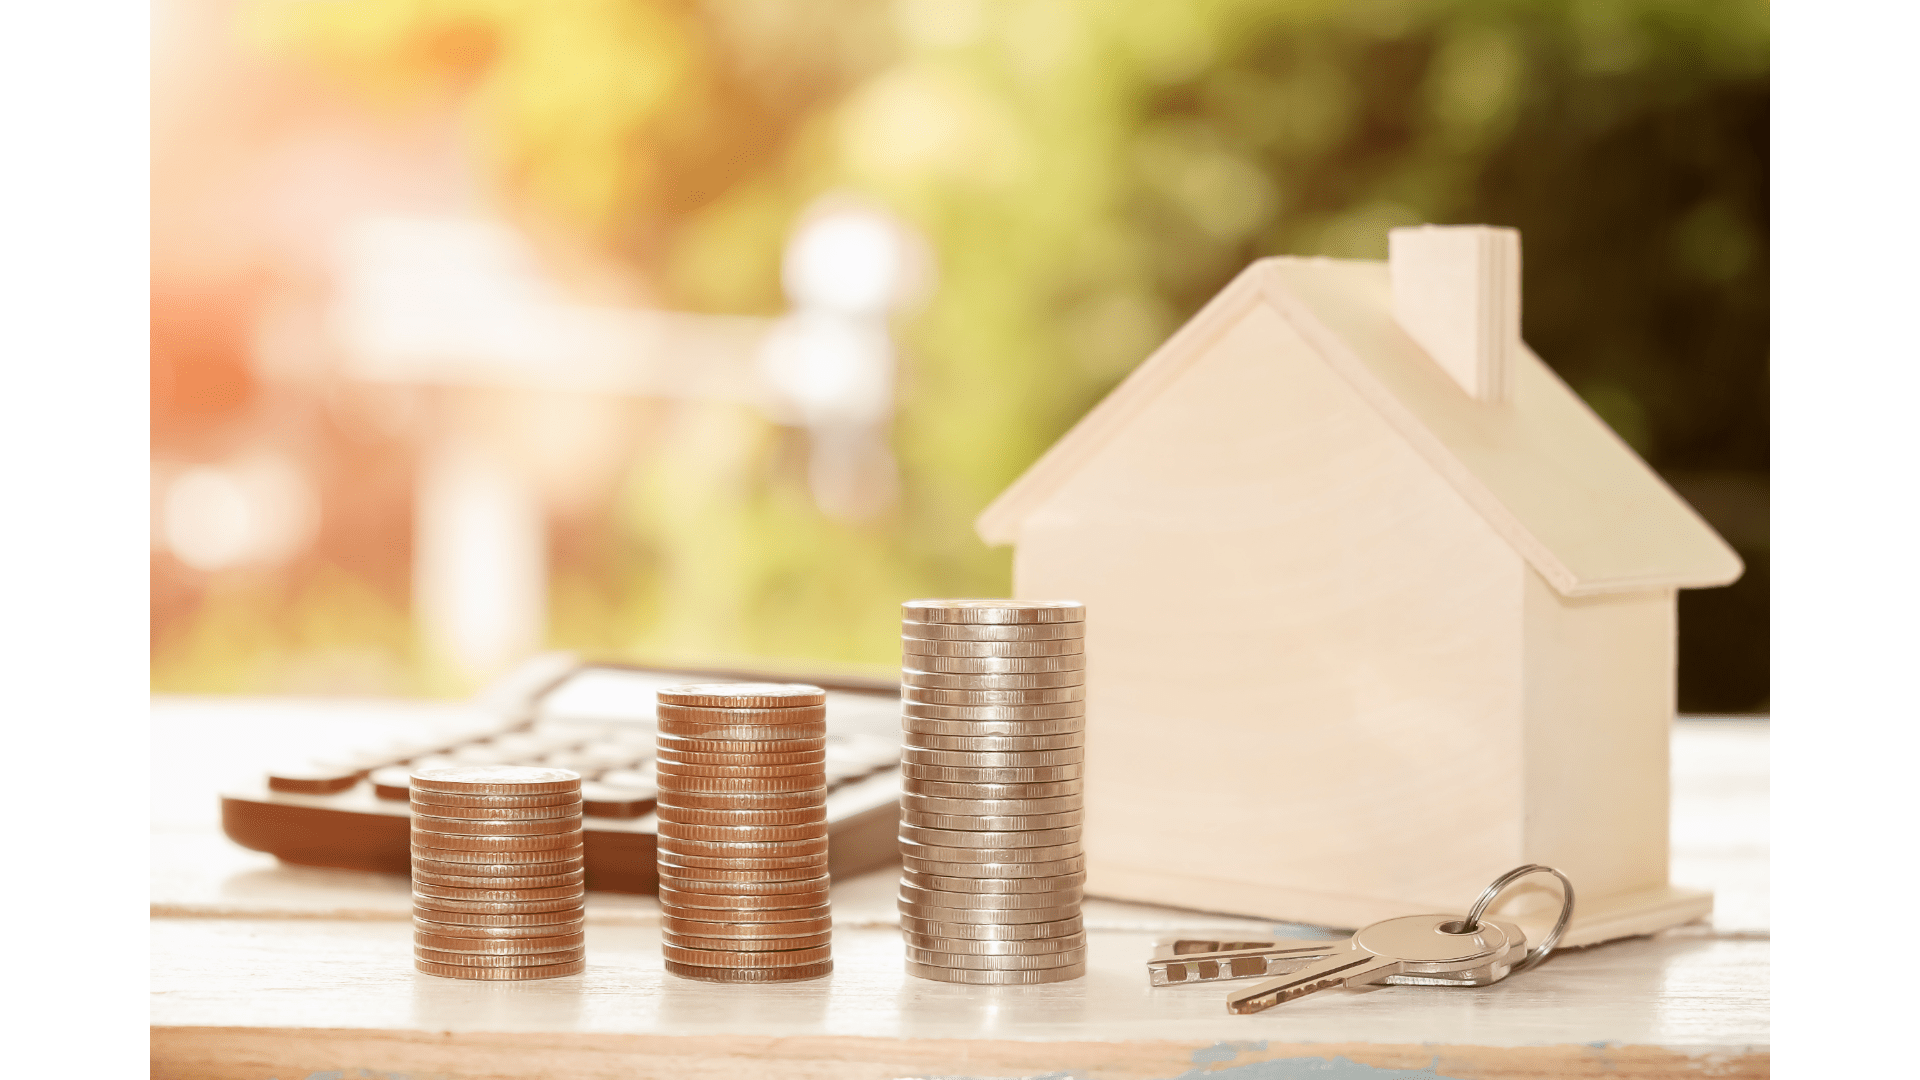
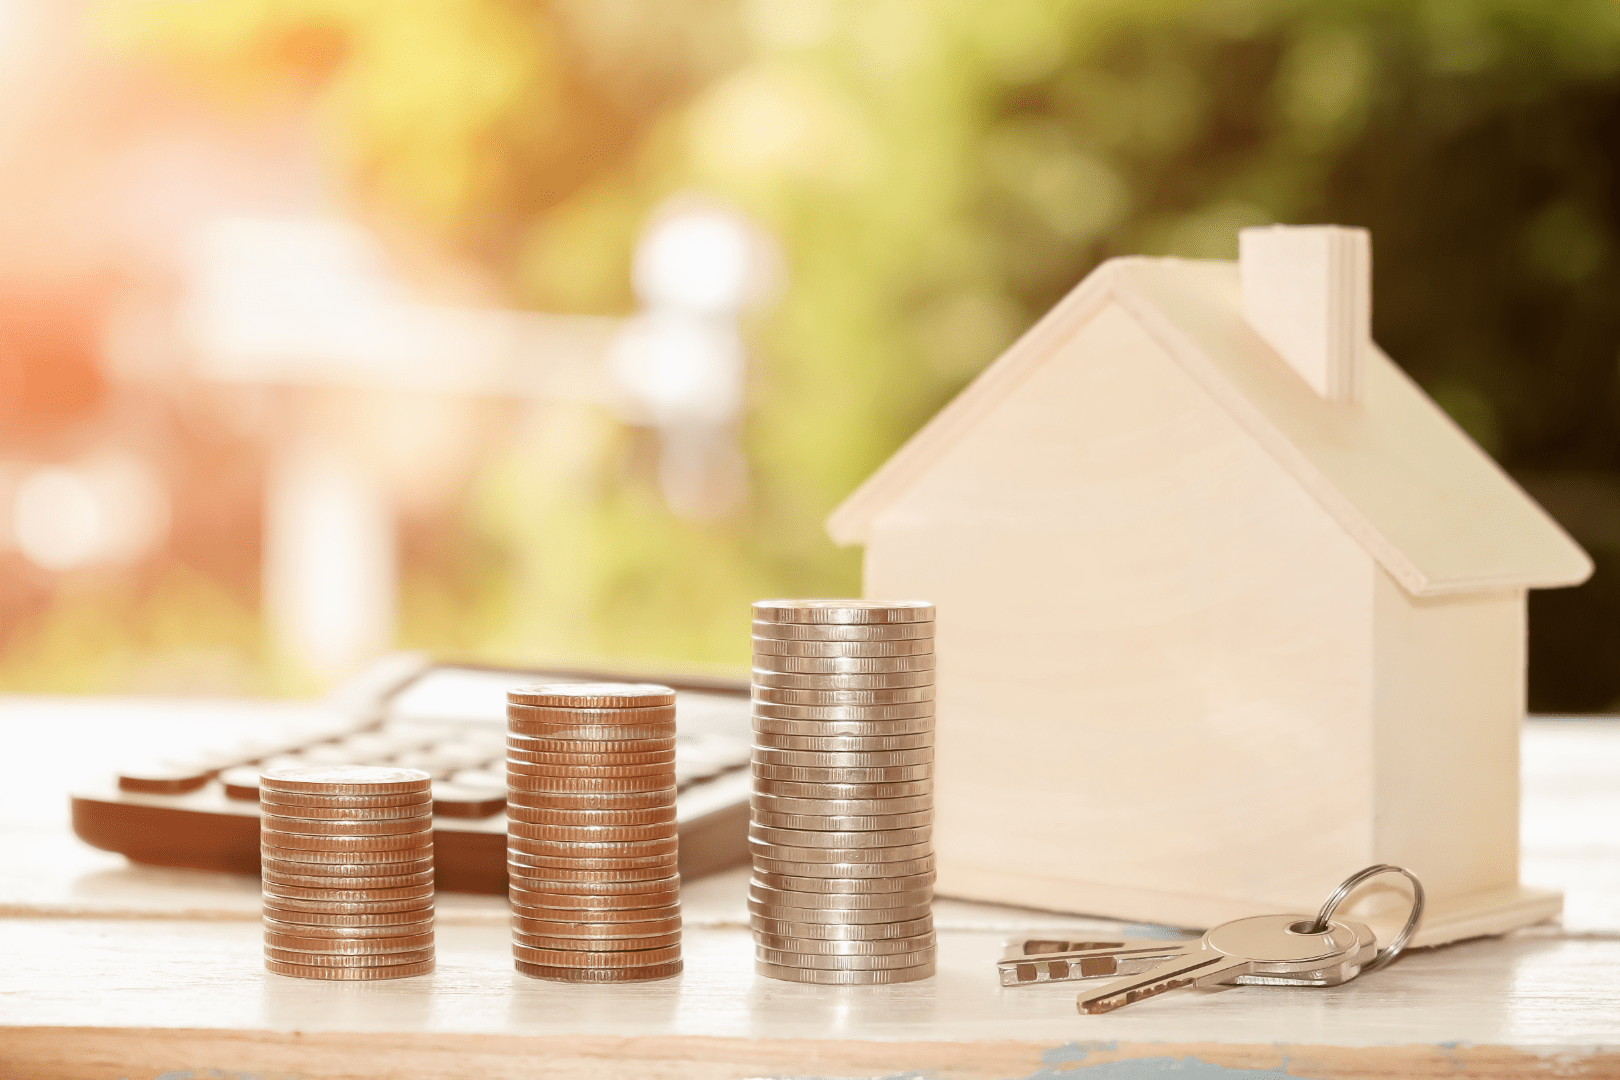
Update images

diff --git a/app/routes/angebote/Inserierung.tsx b/app/routes/angebote/Inserierung.tsx
@@ -2,11 +2,11 @@ import { Layout } from "~/components/Layout/Layout";
 
 import { Heading } from "~/components/Heading/Heading";
 
-import inserierung from "~/images/inserierung.svg";
-import inserierun1 from "~/images/inserierung1.svg";
-import inserierun2 from "~/images/inserierung2.svg";
-import inserierun3 from "~/images/inserierung3.svg";
-import inserierun4 from "~/images/inserierung4.svg";
+import inserierung from "~/images/inserierung.png";
+import inserierun1 from "~/images/inserierung1.png";
+import inserierun2 from "~/images/inserierung2.png";
+import inserierun3 from "~/images/inserierung3.png";
+import inserierun4 from "~/images/inserierung4.png";
 import { ContentFeatureContainer } from "~/components/Content/ContentFeatureContainer";
 import { Carousel } from "~/components/Carousel/Carousel";
 import { Container } from "~/components/Container/Container";
@@ -26,7 +26,7 @@ export default function Inserierung() {
           "Folgende Infos & Dokumente werden dafür benötigt:<br />Fotos<br />Angaben zur Immobilie<br />Grundrissplan",
         ]}
         images={[inserierung]}
-        imageClassName="max-w-[300px]"
+        imageClassName="max-w-[300px] md:pl-4"
         bgColor="bg-[#AD9A81]"
         button={{
           text: "Hier geht’s zum Kontakt",
@@ -36,6 +36,7 @@ export default function Inserierung() {
       <div className="-mt-32">
         <Container>
           <Carousel
+            imageClassName="max-h-[320px] mx-4"
             images={[inserierun1, inserierun2, inserierun3, inserierun4]}
           />
         </Container>
